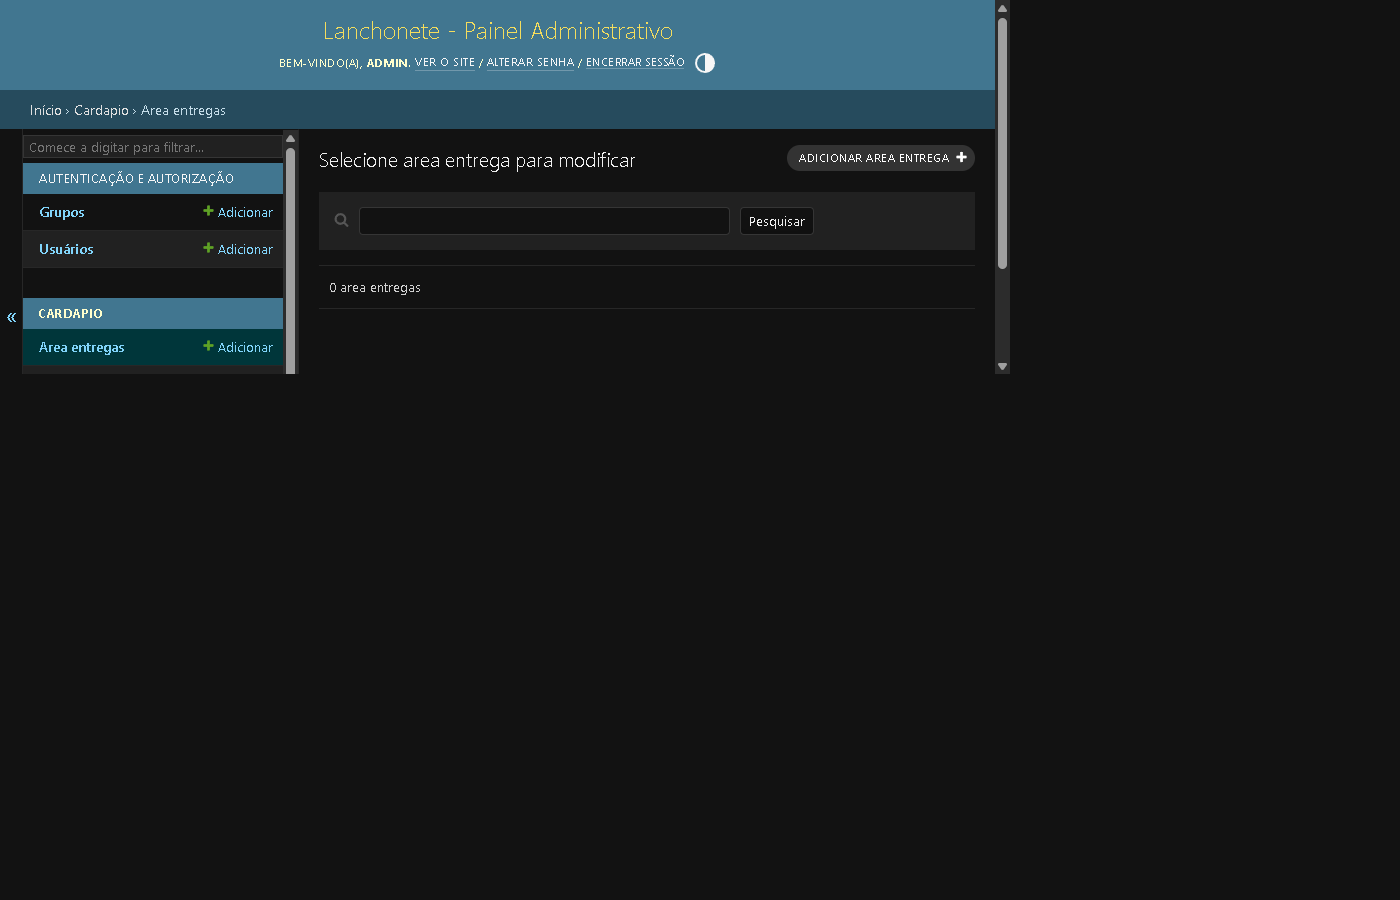
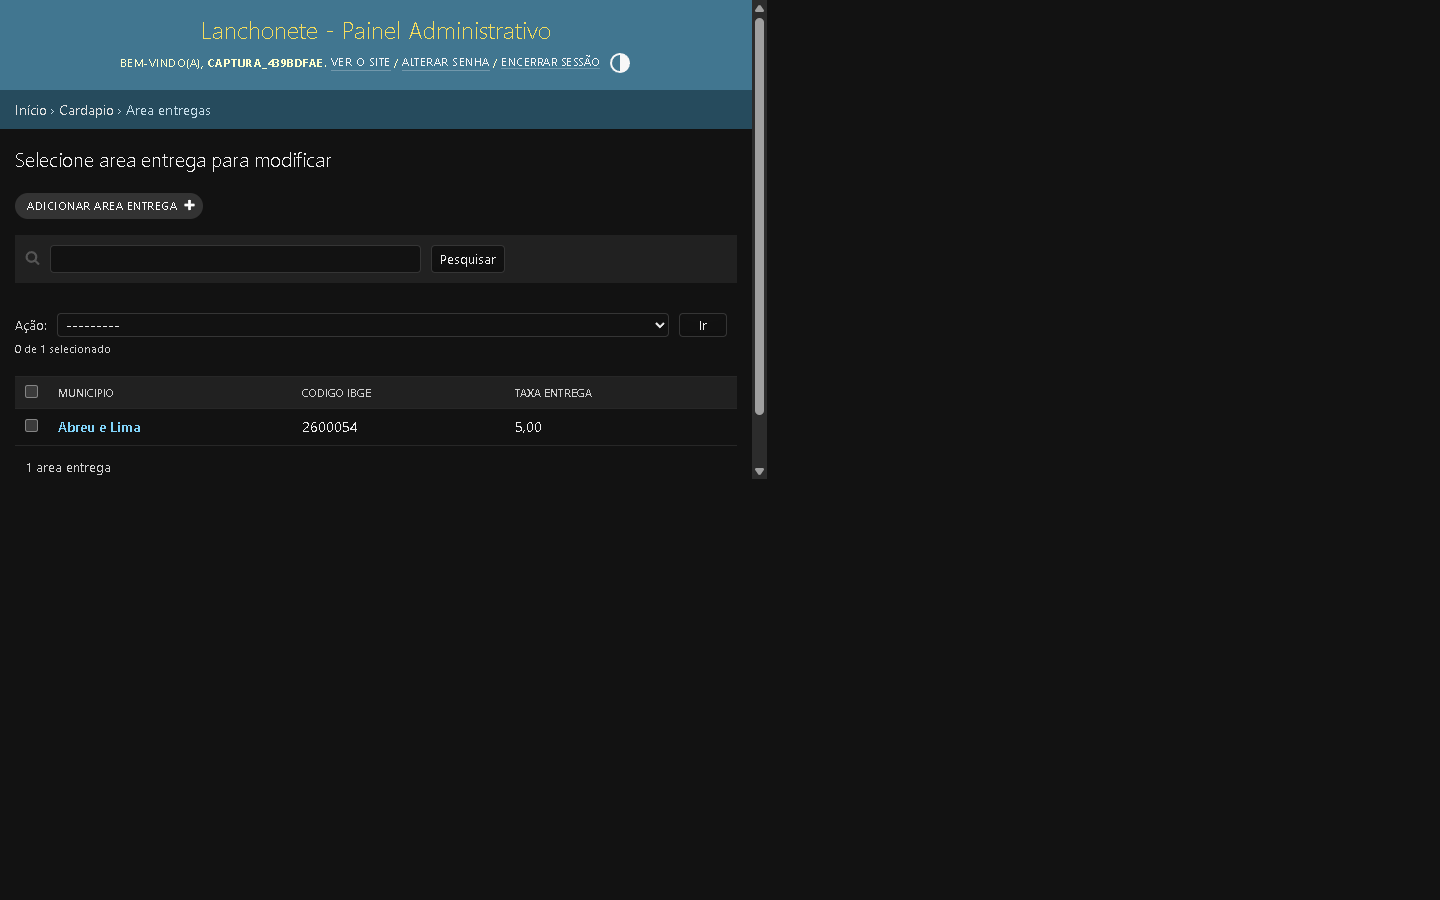
Completa README com validacao e capturas

diff --git a/cardapio/tests.py b/cardapio/tests.py
@@ -69,7 +69,10 @@ class CatalogApiTests(APITestCase):
         )
 
         self.assertEqual(response.status_code, status.HTTP_400_BAD_REQUEST)
-        self.assertIn("preco", response.data)
+        self.assertEqual(
+            response.data["preco"],
+            ["Certifque-se de que este valor seja maior ou igual a 0."],
+        )
 
     def test_category_products_action_only_returns_its_products(self):
         another_category = Categoria.objects.create(nome="Bebidas")

diff --git a/README.md b/README.md
@@ -194,7 +194,7 @@ O que foi personalizado:
 
 ![Produtos editáveis dentro da categoria](docs/img/admin-categoria-inline.png)
 
-![Lista de áreas de entrega no Django Admin, ainda sem cadastros](docs/img/admin-areas-entrega.png)
+![Lista de áreas de entrega no Django Admin com Abreu e Lima cadastrada](docs/img/admin-areas-entrega.png)
 
 ## 8. Prints
 
@@ -212,11 +212,15 @@ O que foi personalizado:
 
 ![Resposta para uma UF inválida](docs/img/municipios-uf-invalida.png)
 
-Os prints da criação de produto (201) e da validação de preço negativo (400) ainda precisam ser adicionados.
+### Criação e validação de produto
+
+![Criação de produto com resposta HTTP 201](docs/img/api-produto-201.png)
+
+![Rejeição de preço negativo com resposta HTTP 400](docs/img/api-preco-negativo-400.png)
 
 ## 9. Dificuldades e aprendizados
 
-[PREENCHER: escreva com sinceridade o que foi mais difícil, como resolveu e o que aprendeu. Este texto precisa ser o seu relato real. Dicas: erros de comando no terminal, ativar o venv, migrações, token, entender serializer/viewset, o IBGE.]
+A parte mais complicada foi conseguir acessar o site, porque havia um erro em uma parte do código. Também aprendi a conciliar o uso da IA com o conhecimento do conteúdo: é importante entender e conferir as sugestões, em vez de apenas copiá-las.
 
 ## 10. Perguntas-chave
 
@@ -267,7 +271,7 @@ GET busca, POST cria, PUT substitui tudo, PATCH altera parte e DELETE remove. Pa
 - **404:** registro que não existe (ex.: `/api/produtos/9999/`).
 
 **15. Onde coloquei a validação do preço? O que a API devolve com preço negativo?**
-No serializer (`validate_preco` em `ProdutoSerializer`) e também no model, com `MinValueValidator(0)`. A API responde 400 com uma mensagem de erro no campo `preco`. [PREENCHER: teste e cole aqui a mensagem exata que apareceu para você.]
+No model, com `MinValueValidator(0)`, e no serializer (`validate_preco` em `ProdutoSerializer`). Ao enviar um preço negativo, a API responde 400 com `preco: ["Certifque-se de que este valor seja maior ou igual a 0."]`.
 
 **16. Diferença entre Admin e API? Quem usa cada um?**
 O Admin é um painel visual para quem administra: o dono cadastra categorias e produtos nele. A API é feita para programas (site, app) lerem e enviarem dados em JSON.
@@ -299,7 +303,11 @@ O app envia uma requisição HTTP, por exemplo `GET /api/produtos/?disponivel=tr
 
 **Extra C5:** o model `AreaEntrega` (município, código IBGE, taxa) está no admin e, ao criar pela API, o serializer consulta o IBGE para confirmar que o código existe.
 
-O código da view está em [`cardapio/views.py`](cardapio/views.py). As respostas de sucesso e UF inválida estão registradas na seção 8. O print do código da view e os prints de uma área cadastrada e da validação de código IBGE inexistente ainda precisam ser adicionados.
+O código da view está em [`cardapio/views.py`](cardapio/views.py). A área cadastrada aparece no print da seção 7, e a validação de código IBGE inexistente está abaixo:
+
+![API rejeitando código IBGE inexistente](docs/img/area-entrega-ibge-400.png)
+
+A captura do código da view aberto no VS Code, com o trecho legível, ainda precisa ser adicionada.
 
 **E1. Diferença entre minha API fornecer dados e consumir dados de outra API?**
 Quando fornece, ela é o servidor: outros sistemas pedem dados a ela (como o app pedindo produtos). Quando consome, ela é o cliente: faz a requisição para outro servidor (o IBGE) e usa a resposta.
